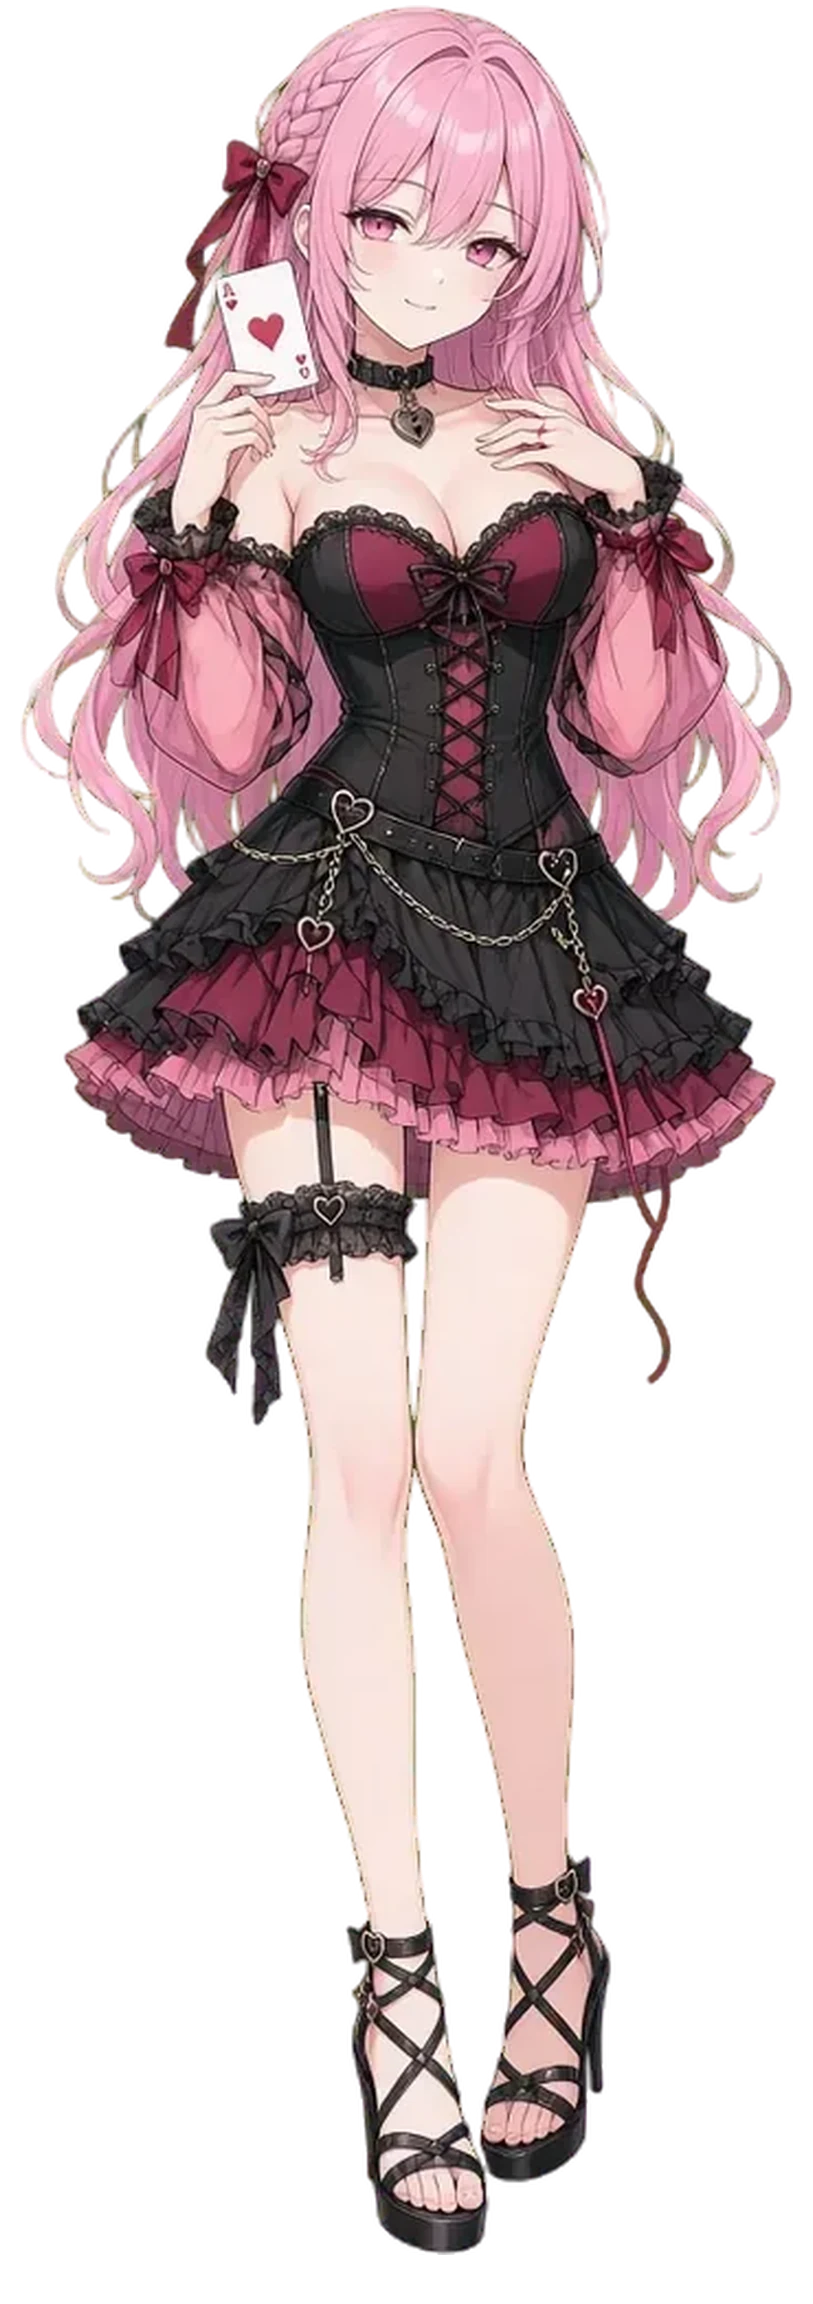
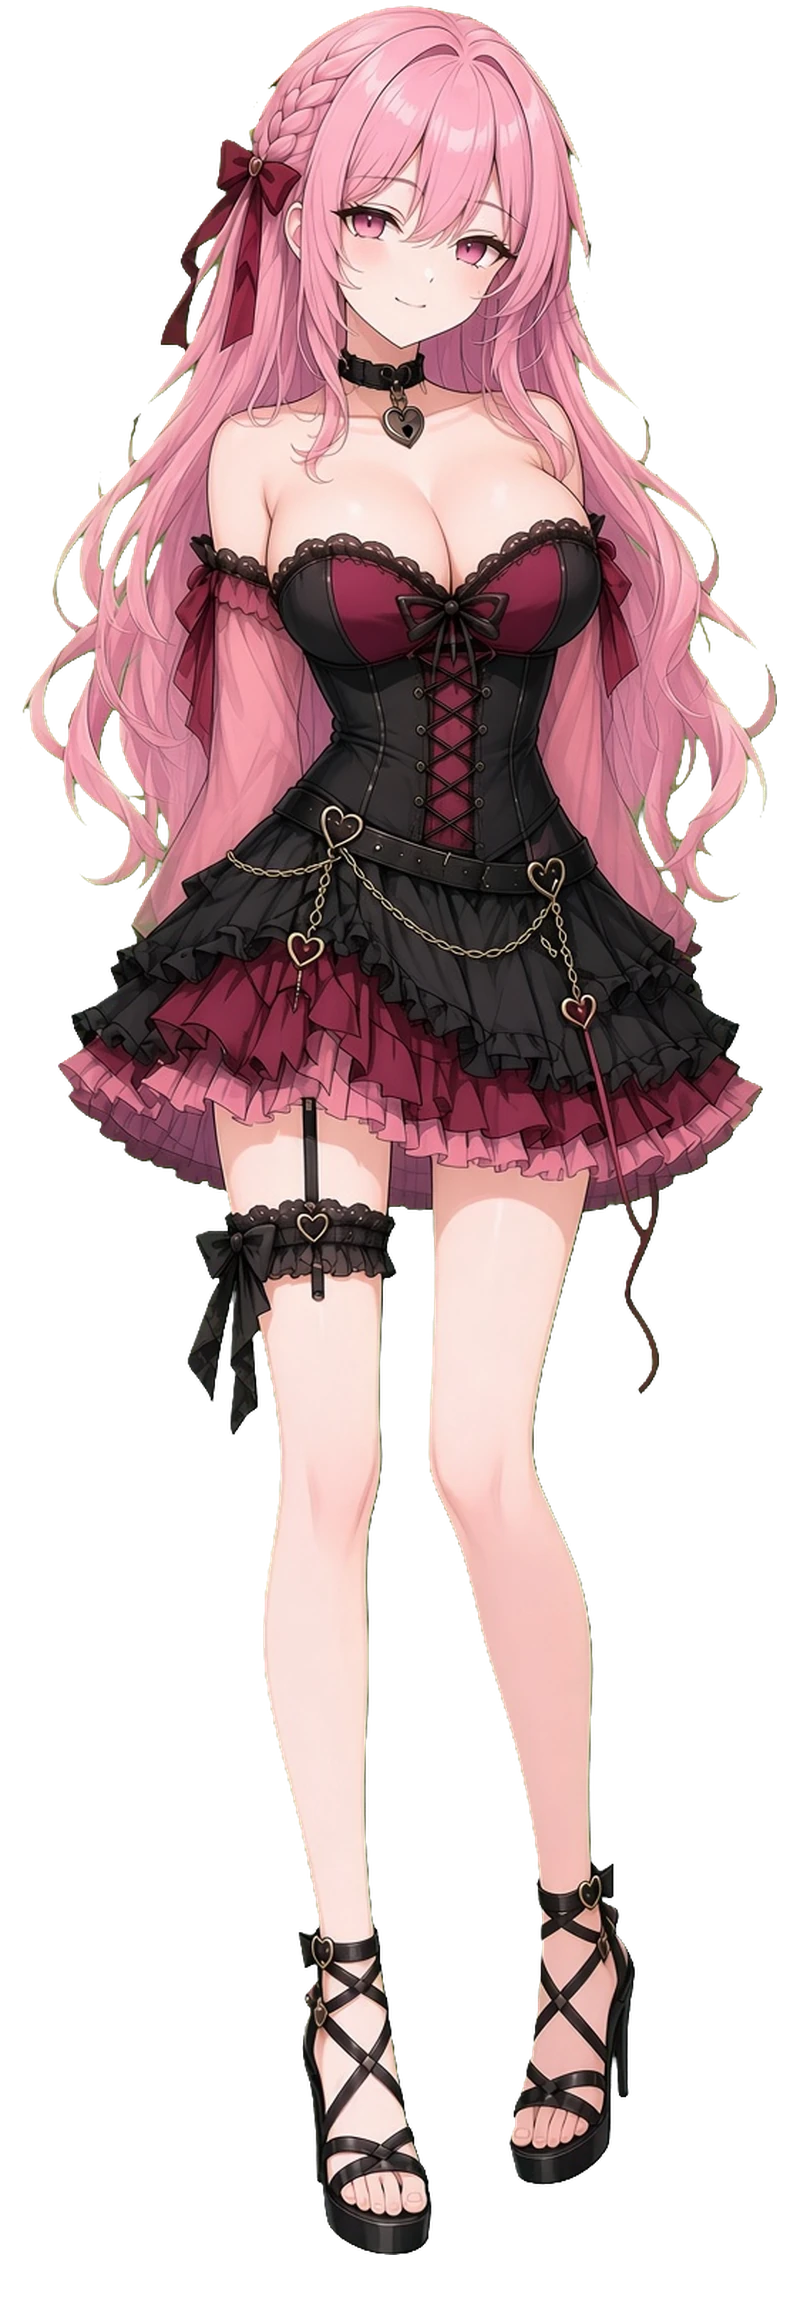
올인 러브 v4: 세라 새 스탠딩 · 표정 12개 · 1일차 표정 연결
- 새로 뽑은 세라 전신(초록 배경 → 투명)으로 교체, 표정 시트 두 장의 얼굴을 기본 몸에 맞춰 붙여 차분 12개 (웃음 · 폭소 · 능청 · 뾰로통 · 놀람 · 수줍음 · 슬픔 · 울며 웃기 · 차가움 · 웃는 분노 · 얀데레 눈 · 하트 눈)
- 표정 종류에 empty(얀데레 · 3주차부터) · heart 추가, 대체 표정 연결
- 1일차 세라 대사와 방치 · 터치 반응에 표정 연결, 아이콘 · 대사창 초상 위치 새 그림 기준

Changed region(s): [[0.0301, 0.0, 0.9937, 1.0]]

diff --git a/web/src/lib/love/reactions.ts b/web/src/lib/love/reactions.ts
@@ -24,7 +24,7 @@ const pickOne = <T,>(a: T[]): T => a[Math.floor(Math.random() * a.length)];
 const TOUCH_HEAD: Partial<Record<CharKey, Tiered>> = {
   sera: [
     [
-      { text: "어? 쓰다듬어 주는 거예요? …한 번 더요.", face: "smile" },
+      { text: "어? 쓰다듬어 주는 거예요? …한 번 더요.", face: "blush" },
       { text: "손님 머리 만지면 안 되는 거 아니에요? 저는 좋지만요.", face: "smile" },
     ],
     [
@@ -32,7 +32,7 @@ const TOUCH_HEAD: Partial<Record<CharKey, Tiered>> = {
       { text: "더 해 주면, 저 오늘 안 갈 거예요.", face: "smile" },
     ],
     [
-      { text: "…딜러님 손, 역시 예뻐요.", face: "smile", heart: true },
+      { text: "…딜러님 손, 역시 예뻐요.", face: "heart", heart: true },
       { text: "이거, 저한테만 해요. 약속.", face: "smile", heart: true },
     ],
   ],
@@ -69,7 +69,7 @@ const TOUCH_HEAD: Partial<Record<CharKey, Tiered>> = {
 const TOUCH_BODY: Partial<Record<CharKey, Tiered>> = {
   sera: [
     [
-      { text: "앗. 딜러님 먼저 만졌어요. 이제 저도 만져도 되는 거죠?", face: "smile" },
+      { text: "앗. 딜러님 먼저 만졌어요. 이제 저도 만져도 되는 거죠?", face: "surprise" },
       { text: "…지금 제 쪽으로 온 거죠? 그렇게 알게요.", face: "smile" },
     ],
     [
@@ -77,7 +77,7 @@ const TOUCH_BODY: Partial<Record<CharKey, Tiered>> = {
       { text: "후후. 심장 소리 들려요? 저 지금 콜이에요.", face: "smile", heart: true },
     ],
     [
-      { text: "……조금만 더 이러고 있어요.", face: "smile", heart: true },
+      { text: "……조금만 더 이러고 있어요.", face: "blush", heart: true },
       { text: "놓으면 안 돼요. 놓으면, 제가 잡을 거예요.", face: "smile", heart: true },
     ],
   ],
@@ -115,7 +115,7 @@ const IDLE: Partial<Record<CharKey, Tiered>> = {
   // 세라: 존댓말 · 늘 웃음 · 집요함 (3주차 전엔 '모르는 걸 아는' 대사 금지)
   sera: [
     [
-      { text: "…저 보고 있었죠? 괜찮아요. 저도 보고 있었어요.", face: "smile" },
+      { text: "…저 보고 있었죠? 괜찮아요. 저도 보고 있었어요.", face: "smug" },
       { text: "기다리는 거 잘해요. 3분이든, 3년이든.", face: "smile" },
     ],
     [
@@ -123,7 +123,7 @@ const IDLE: Partial<Record<CharKey, Tiered>> = {
       { text: "가만히 있으면, 저 그냥 계속 볼 거예요?", face: "smile" },
     ],
     [
-      { text: "…이대로 시간 멈추면 좋겠다.", face: "smile", heart: true },
+      { text: "…이대로 시간 멈추면 좋겠다.", face: "heart", heart: true },
       { text: "딜러님이 아무 말 안 해도, 저는 안 가요.", face: "smile", heart: true },
     ],
   ],

diff --git a/web/src/lib/love/script-w1.ts b/web/src/lib/love/script-w1.ts
@@ -224,7 +224,7 @@ export const W1: Scenes = {
     { t: "sfx", id: "deal" },
     N("리버에 옆자리 손님의 플러시. 칩은 둘 다 그쪽으로 넘어갔다."),
     A("…뭐? 왜 하필 지금 뜨냐고!", "shout", "surprise"),
-    S("아하하.", "smile"),
+    S("아하하.", "laugh"),
     A("웃지 마요! 언니도 졌잖아!", "pout"),
     S("네. 그래도 재밌었어요.", "smile"),
     {
@@ -287,7 +287,7 @@ export const W1: Scenes = {
     ME("마감했어요."),
     S("그러니까요. 손님들 판 말고, 딜러님이랑요. 딱 한 판.", "smile"),
     N("사탕 열 개씩. 그녀는 카드를 받자마자 또 뒤집어 보여 준다. 9와 4."),
-    S("저 이거예요. 사탕 전부.", "smile"),
+    S("저 이거예요. 사탕 전부.", "smug"),
     TH("내 패는 J 페어. 받으면 이긴다. 그녀도 그걸 안다. …그런데 왜 웃지."),
     {
       t: "choice",
@@ -301,12 +301,12 @@ export const W1: Scenes = {
   d1_c_call: [
     { t: "sfx", id: "chip" },
     N("J 페어. 사탕 열 개가 내 쪽으로 굴러온다."),
-    S("역시. 안 봐주시네요.", "smile"),
+    S("역시. 안 봐주시네요.", "smug"),
     { t: "goto", to: "d1_c_end" },
   ],
   d1_c_fold: [
     N("카드를 덮었다. 그녀가 사탕 열 개를 다시 제 쪽으로 쓸어 갔다. 웃음이 아주 잠깐 멈췄다."),
-    S("…져 주는 거, 티 나요. 다음엔 그러지 마요.", "smile"),
+    S("…져 주는 거, 티 나요. 다음엔 그러지 마요.", "pout"),
     { t: "goto", to: "d1_c_end" },
   ],
   d1_c_end: [
@@ -323,7 +323,7 @@ export const W1: Scenes = {
     },
   ],
   d1_s_see: [
-    S("…네. 내일 봬요.", "smile"),
+    S("…네. 내일 봬요.", "blush"),
     N("이번에는 눈까지 웃었다. 처음으로."),
     { t: "sfx", id: "pen" },
     { t: "goto", to: "d1_s_out" },
@@ -334,7 +334,7 @@ export const W1: Scenes = {
   ],
   d1_s_fold: [
     N("세라의 얼굴에서 웃음이 사라졌다. 딱 한 박자."),
-    S("……그 말은, 아직이에요.", "base"),
+    S("……그 말은, 아직이에요.", "cold"),
     N("그리고 다시 웃었다. 아무 일도 없었다는 듯이."),
     { t: "goto", to: "d1_s_out" },
   ],

diff --git a/web/src/lib/love/assets.ts b/web/src/lib/love/assets.ts
@@ -27,8 +27,11 @@ export const STAND: Record<CharKey, StandSet> = {
     base: `${B}/char/yeonseo-base.webp`,
     faces: faces("yeonseo", ["away", "smile", "cold", "surprise", "sad", "blush", "cry", "laugh", "angry"]),
   },
-  /** 세라 — 지금은 포커 전신 그림을 임시로 씀 (표정 차분은 GPT 요청 후) */
-  sera: { base: `${B}/char/sera-base.webp`, faces: {} },
+  /** 세라 — 기본 = 웃는 얼굴. 표정은 얼굴 시트 두 장을 기본 몸에 맞춰 붙인 것 (empty = 얀데레 눈은 3주차부터) */
+  sera: {
+    base: `${B}/char/sera-base.webp`,
+    faces: faces("sera", ["smile", "laugh", "smug", "pout", "surprise", "blush", "sad", "cry", "cold", "angry", "empty", "heart"]),
+  },
   amy: {
     base: `${B}/char/amy-base.webp`,
     faces: faces("amy", ["smile", "pout", "surprise", "sad", "blush", "smug", "angry", "cry", "wink"]),
@@ -53,6 +56,8 @@ export const FACE_NEAR: Partial<Record<Face, Face[]>> = {
   blush: ["smile"],
   sad: ["away"],
   surprise: [],
+  empty: ["cold", "sad"],
+  heart: ["blush", "smile"],
 };
 
 /**
@@ -297,7 +302,7 @@ export const NAME: Record<Who, string> = {
  *  표정 그림은 같은 캔버스라 같은 값. 의상은 캔버스가 달라 따로 (없으면 기본 옷 값) */
 export const PORTRAIT: Record<string, [number, number, number, number]> = {
   "amy": [0.3724, 0.4849, 0.105, 0.1305],
-  "sera": [0.3529, 0.4732, 0.1014, 0.1335],
+  "sera": [0.3459, 0.5158, 0.108, 0.128],
   "amy-store": [0.3377, 0.4689, 0.1211, 0.0965],
   "amy-tshirt": [0.2839, 0.5035, 0.1168, 0.0977],
   "boss": [0.3403, 0.414, 0.0859, 0.1257],

diff --git a/web/src/lib/love/types.ts b/web/src/lib/love/types.ts
@@ -37,7 +37,11 @@ export type Face =
   | "cry"
   | "laugh"
   | "angry"
-  | "wink";
+  | "wink"
+  /** 세라: 하이라이트 없는 눈 (얀데레 — 3주차부터) */
+  | "empty"
+  /** 세라: 하트 눈 */
+  | "heart";
 export type Pos = "l" | "c" | "r";
 /** 스탠딩 의상: 에이미 tshirt(내 티셔츠) · 연서 knit(오피스텔 안경 니트) · bare(장갑 벗은 근무복) */
 /** store = 편의점 조끼(안에 연회색 큰 티) · down = 머리 푼 티셔츠 · swim = 수영복 · knitbare = 니트 맨손 · summer = 여름 원피스 */
